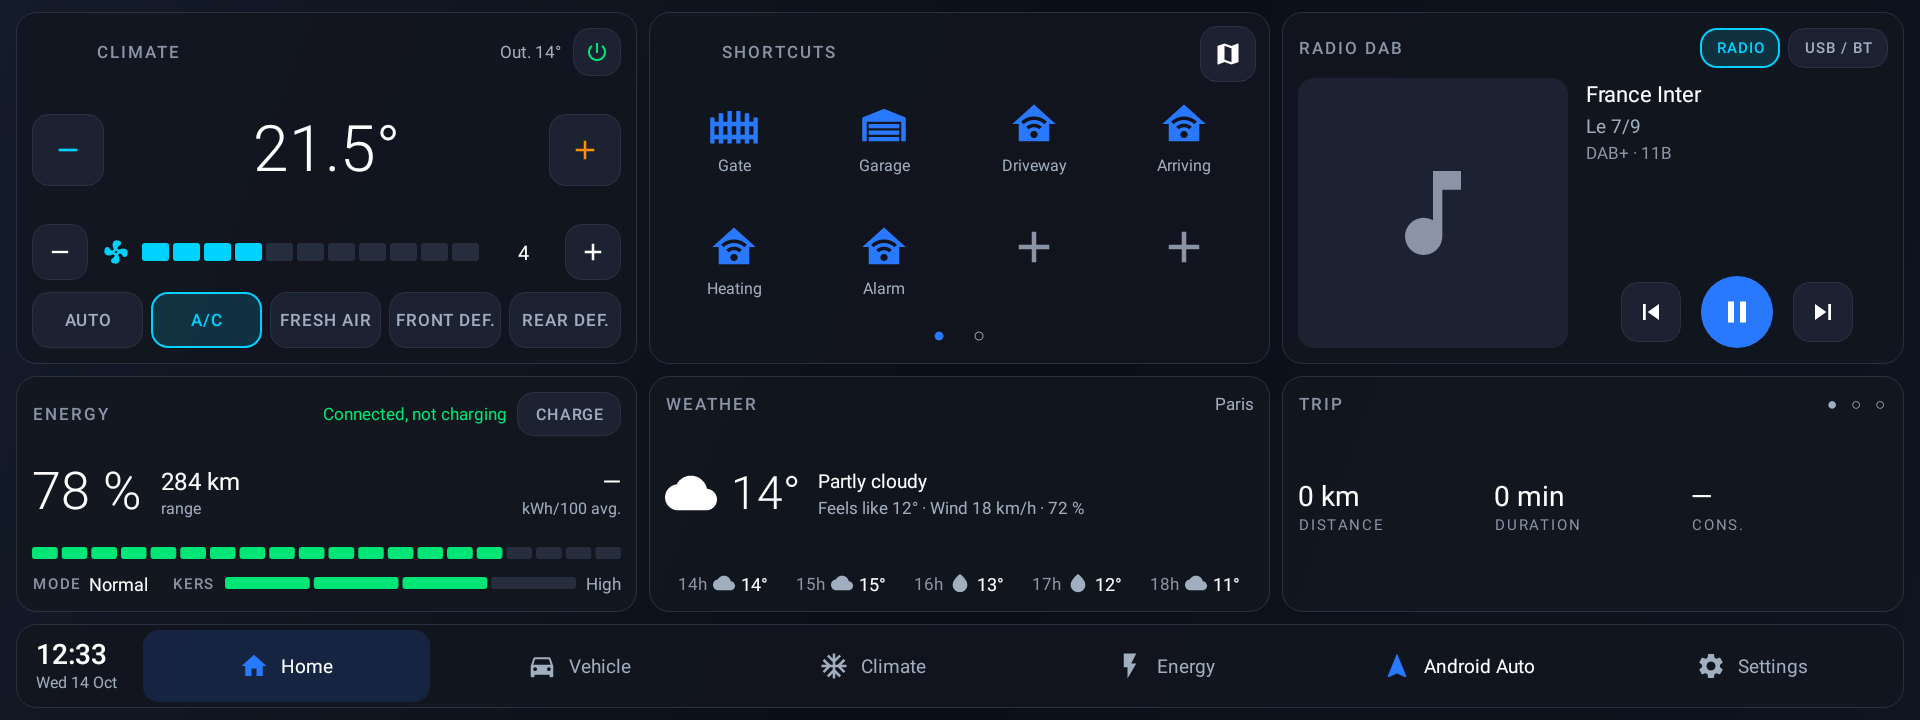
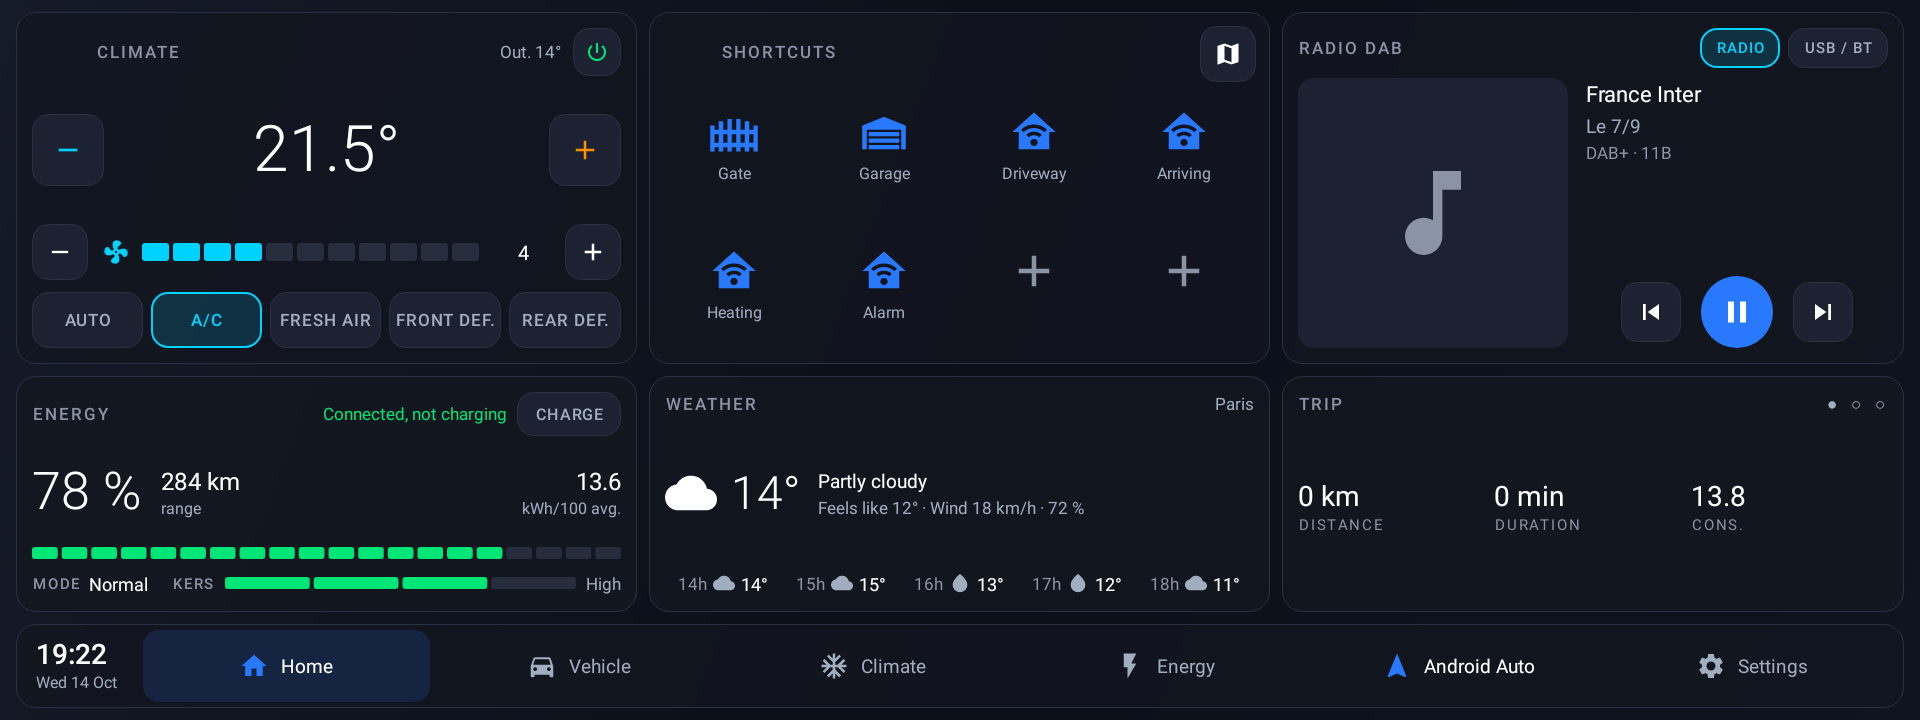
Measured consumption: battery power split into driving, climate and accessories (learned at standstill); single shortcuts page without dots

diff --git a/app/src/main/java/app/mg4dash/energy/EnergyMonitor.kt b/app/src/main/java/app/mg4dash/energy/EnergyMonitor.kt
@@ -1,0 +1,191 @@
+package app.mg4dash.energy
+
+import android.content.Context
+import app.mg4dash.BuildConfig
+import app.mg4dash.car.CarBridge
+import app.mg4dash.car.CarProps
+import app.mg4dash.car.VehicleState
+import app.mg4dash.system.Log
+import app.mg4dash.system.Prefs
+import kotlinx.coroutines.CoroutineScope
+import kotlinx.coroutines.Dispatchers
+import kotlinx.coroutines.SupervisorJob
+import kotlinx.coroutines.delay
+import kotlinx.coroutines.flow.MutableStateFlow
+import kotlinx.coroutines.flow.StateFlow
+import kotlinx.coroutines.launch
+
+/**
+ * Consommation mesurée, répartie entre conduite, climatisation et accessoires.
+ *
+ * Constaté sur la voiture (journal du 2026-10-14) : les compteurs de consommation SAIC restent
+ * à zéro, mais tension et courant batterie sont fiables. Donc, chaque seconde :
+ *  - P = tension × courant ; P > 0 = énergie consommée, P < 0 en roulant = récupération ;
+ *  - à l'arrêt, clim coupée : P = accessoires (12 V, écran…) → appris, par état des feux /
+ *    essuie-glaces (différence mesurée en conditions identiques) ;
+ *  - à l'arrêt, clim allumée : P − accessoires = clim → appris par réglage (ventilation,
+ *    chauffage / froid, dégivrage) ;
+ *  - en roulant : clim et accessoires = valeurs apprises, le reste = conduite.
+ * Deux périodes : depuis la dernière recharge, depuis le démarrage (pause de plus de 10 min).
+ */
+object EnergyMonitor {
+    private const val TAG = "EnergyMon"
+    private const val SLEEP_GAP_MS = 10 * 60_000L
+
+    data class Totals(
+        val outKwh: Float = 0f,      // énergie sortie de la batterie
+        val regenKwh: Float = 0f,    // récupérée en roulant
+        val climKwh: Float = 0f,
+        val accKwh: Float = 0f,
+        val km: Int = 0,
+    ) {
+        val driveKwh: Float get() = (outKwh - climKwh - accKwh).coerceAtLeast(0f)
+        val netKwh: Float get() = (outKwh - regenKwh).coerceAtLeast(0f)
+        /** kWh/100 km net (récupération déduite), à partir de 2 km. */
+        val per100: Float? get() = if (km >= 2 && netKwh > 0.1f) (netKwh / km * 100f).takeIf { it in 3f..60f } else null
+    }
+
+    private val _sinceCharge = MutableStateFlow(Totals())
+    val sinceCharge: StateFlow<Totals> = _sinceCharge
+    private val _sinceStart = MutableStateFlow(Totals())
+    val sinceStart: StateFlow<Totals> = _sinceStart
+
+    /** Puissances apprises (W), pour l'affichage et le journal. */
+    @Volatile var accessoriesW = 250f; private set
+    @Volatile var climateW = 0f; private set
+
+    private val scope = CoroutineScope(SupervisorJob() + Dispatchers.Default)
+
+    fun start(context: Context) {
+        val prefs = Prefs(context)
+        val sp = prefs.raw
+        if (BuildConfig.MOCK) {
+            _sinceCharge.value = Totals(18.4f, 3.2f, 2.1f, 0.9f, 112)
+            _sinceStart.value = Totals(3.6f, 0.7f, 0.5f, 0.2f, 21)
+            return
+        }
+        fun load(p: String) = Totals(sp.getFloat("${p}_out", 0f), sp.getFloat("${p}_rgn", 0f), sp.getFloat("${p}_clim", 0f), sp.getFloat("${p}_acc", 0f))
+        _sinceCharge.value = load("em_c")
+        accessoriesW = sp.getFloat("em_base", 250f)
+
+        scope.launch {
+            var last = System.currentTimeMillis()
+            var chargeKm = sp.getInt("em_c_km0", -1)
+            var startKm = -1
+            var lastSoc = sp.getInt("em_last_soc", -1)
+            var saveTick = 0
+            val learned = HashMap<String, Float>()
+            fun get(k: String, def: Float) = learned.getOrPut(k) { sp.getFloat(k, def) }
+            fun put(k: String, v: Float) { learned[k] = v }
+            while (true) {
+                delay(1000)
+                val now = System.currentTimeMillis()
+                val dt = now - last
+                last = now
+                val s = CarBridge.state.value
+                val km = s.odometerKm
+                val soc = s.batteryPercent
+
+                // Nouveau démarrage : longue pause (voiture en veille) ou premier passage
+                if (dt > SLEEP_GAP_MS || startKm < 0) {
+                    if (km != null) startKm = km
+                    _sinceStart.value = Totals()
+                }
+                // Recharge : le % remonte → nouvelle période « depuis la recharge »
+                if (soc != null) {
+                    if (lastSoc >= 0 && soc > lastSoc + 1 || chargeKm < 0 && km != null) {
+                        Log.i(TAG, "nouvelle période depuis recharge ($soc %)")
+                        _sinceCharge.value = Totals()
+                        chargeKm = km ?: -1
+                        sp.edit().putInt("em_c_km0", chargeKm).apply()
+                    }
+                    if (soc != lastSoc) { lastSoc = soc; sp.edit().putInt("em_last_soc", soc).apply() }
+                }
+
+                val v = CarProps.getFloat(CarProps.BMS_PACK_VOL)
+                val i = CarProps.getFloat(CarProps.BMS_PACK_CRNT)
+                if (v == null || i == null || v < 100f || v > 900f || dt > 5000) continue
+                if (VehicleState.isPlugged(s.chargeStatus)) continue   // en charge ou V2L : hors conso
+                val p = v * i
+                val h = dt / 3_600_000f
+                val stopped = (s.speedKmh ?: 0f) < 0.5f
+                val hvacOn = s.hvacOn == true
+
+                // Apprentissage à l'arrêt
+                val accKey = "em_acc_" + accessoryKey(s)
+                val accW = get(accKey, accessoriesW)
+                val climKey = "em_clim_" + climateKey(s)
+                if (stopped && p in 30f..8000f) {
+                    if (!hvacOn) {
+                        val nv = ema(accW, p, 0.02f)
+                        put(accKey, nv)
+                        if (accKey == "em_acc_off") { accessoriesW = nv; put("em_base", nv) }
+                    } else {
+                        val c = (p - accW).coerceAtLeast(0f)
+                        put(climKey, ema(get(climKey, c), c, 0.05f))
+                        put("em_clim_any", ema(get("em_clim_any", c), c, 0.05f))
+                    }
+                }
+
+                // Répartition
+                var out = 0f; var regen = 0f; var clim = 0f; var acc = 0f
+                if (p >= 0f) {
+                    out = p * h
+                    val cw = if (!hvacOn) 0f else if (stopped) (p - accW).coerceAtLeast(0f)
+                        else get(climKey, get("em_clim_any", 1000f))
+                    climateW = cw
+                    val cPart = minOf(cw, p)
+                    val aPart = minOf(accW, p - cPart)
+                    clim = cPart * h; acc = aPart * h
+                } else if (!stopped) {
+                    regen = -p * h
+                }
+                fun add(t: Totals, k: Int?, k0: Int) = t.copy(
+                    outKwh = t.outKwh + out / 1000f, regenKwh = t.regenKwh + regen / 1000f,
+                    climKwh = t.climKwh + clim / 1000f, accKwh = t.accKwh + acc / 1000f,
+                    km = if (k != null && k0 >= 0) (k - k0).coerceAtLeast(0) else t.km,
+                )
+                _sinceCharge.value = add(_sinceCharge.value, km, chargeKm)
+                _sinceStart.value = add(_sinceStart.value, km, startKm)
+
+                if (++saveTick >= 30) {
+                    saveTick = 0
+                    val c = _sinceCharge.value
+                    val e = sp.edit()
+                    learned.forEach { (k, v) -> e.putFloat(k, v) }
+                    e.putFloat("em_c_out", c.outKwh).putFloat("em_c_rgn", c.regenKwh)
+                        .putFloat("em_c_clim", c.climKwh).putFloat("em_c_acc", c.accKwh).apply()
+                }
+            }
+        }
+    }
+
+    /** Réglage de clim : ventilation (tranches), chauffage / froid / ventilation seule, dégivrage. */
+    private fun climateKey(s: VehicleState): String {
+        val fan = s.fanSpeed ?: 0
+        val fanBucket = when { fan >= 15 -> "max"; fan >= 7 -> "hi"; fan >= 4 -> "mid"; else -> "lo" }
+        val set = s.driverTemp; val outside = s.outsideTemp
+        val mode = when {
+            set == null || outside == null -> "x"
+            set > outside + 2 -> "heat"
+            set < outside - 2 -> "cool"
+            else -> "vent"
+        }
+        val def = (if (s.defrostFront == true) "F" else "") + (if (s.defrostRear == true) "R" else "")
+        return "$mode-$fanBucket-$def"
+    }
+
+    /** Équipements électriques visibles : feux, essuie-glaces. "off" = rien d'allumé. */
+    private fun accessoryKey(s: VehicleState): String {
+        val parts = buildList {
+            if (CarProps.readAny(289410560).let { it == "1" || it == "2" || it == "true" }) add("lights")
+            if (CarProps.readAny(289410561).let { it == "1" || it == "2" || it == "true" }) add("high")
+            if (CarProps.readAny(289410562).let { it == "1" || it == "2" || it == "true" }) add("fog")
+            if (CarProps.readAny(557897511).let { it.isNotEmpty() && it != "0" }) add("wiper")
+            if (s.defrostRear == true && s.hvacOn != true) add("rear")
+        }
+        return if (parts.isEmpty()) "off" else parts.joinToString("+")
+    }
+
+    private fun ema(old: Float, new: Float, k: Float) = old + (new - old) * k
+}

diff --git a/app/src/main/java/app/mg4dash/shortcuts/Shortcuts.kt b/app/src/main/java/app/mg4dash/shortcuts/Shortcuts.kt
@@ -28,14 +28,14 @@ import java.net.URL
 import kotlin.concurrent.thread
 
 /**
- * Raccourcis de l'accueil : 2 pages de 4 × 2 cases, chacune vide, une appli ou une action
+ * Raccourcis de l'accueil : 4 × 2 cases, chacune vide, une appli ou une action
  * Home Assistant. Toucher = lancer ; appui long = modifier.
  * Stockage : "sc_<n>" = "app|<composant>" ou "ha|<entity_id>|<libellé>".
  */
 object Shortcuts {
     const val COLS = 4
     const val ROWS = 2
-    const val PAGES = 2
+    const val PAGES = 1
     private const val TAG = "Raccourcis"
     private val main = Handler(Looper.getMainLooper())
 
@@ -85,18 +85,6 @@ object Shortcuts {
             grid.addView(row, kit.lp(-1, 0, 1f, t = if (r > 0) 10 else 0))
         }
         holder.addView(grid, kit.lp(-1, 0, 1f, t = 4))
-        // Points de page : toucher pour changer
-        val dots = kit.row().apply { gravity = Gravity.CENTER }
-        for (p in 0 until PAGES) {
-            dots.addView(TextView(activity).apply {
-                text = if (p == page) "●" else "○"
-                setTextColor(kit.color(if (p == page) R.color.accent_action else R.color.text_sub))
-                setTextSize(TypedValue.COMPLEX_UNIT_SP, 20f)
-                setPadding(kit.dp(14), kit.dp(4), kit.dp(14), 0)
-                setOnClickListener { onPage(p) }
-            })
-        }
-        holder.addView(dots, kit.lp(-1, -2))
     }
 
     private fun cell(activity: Activity, kit: Kit, prefs: Prefs, i: Int, refresh: () -> Unit): View {

diff --git a/app/src/main/java/app/mg4dash/energy/ConsumptionEstimator.kt b/app/src/main/java/app/mg4dash/energy/ConsumptionEstimator.kt
@@ -63,7 +63,8 @@ object ConsumptionEstimator {
                     sp.edit().putInt("ref_km", km).putInt("ref_soc", soc).apply()
                 }
                 if (soc != lastSoc) sp.edit().putInt("last_soc", soc).apply()
-                _average.value = estimate(km - refKm, refSoc - soc, capacity)
+                // Mesure par puissance batterie si disponible, sinon estimation par le % batterie
+                _average.value = EnergyMonitor.sinceCharge.value.per100 ?: estimate(km - refKm, refSoc - soc, capacity)
 
                 // Trajet en cours
                 if (tripStartKm == null) { tripStartKm = km; tripStartSoc = soc }
@@ -71,7 +72,7 @@ object ConsumptionEstimator {
                 val d = km - (tripStartKm ?: km)
                 _trip.value = _trip.value.copy(
                     distanceKm = d,
-                    kwhPer100 = estimate(d, (tripStartSoc ?: soc) - soc, capacity),
+                    kwhPer100 = EnergyMonitor.sinceStart.value.per100 ?: estimate(d, (tripStartSoc ?: soc) - soc, capacity),
                 )
             }
         }

diff --git a/app/src/main/java/app/mg4dash/pages/EnergyActivity.kt b/app/src/main/java/app/mg4dash/pages/EnergyActivity.kt
@@ -9,6 +9,7 @@ import androidx.lifecycle.repeatOnLifecycle
 import app.mg4dash.R
 import app.mg4dash.car.CarBridge
 import app.mg4dash.car.CarProps
+import app.mg4dash.energy.EnergyMonitor
 import app.mg4dash.car.VehicleState
 import app.mg4dash.energy.ChargeGuard
 import app.mg4dash.system.Apps
@@ -239,7 +240,9 @@ class EnergyActivity : PageActivity() {
             s.chargeRemainMin?.takeIf { VehicleState.isCharging(s.chargeStatus) && it in 1..2000 }
                 ?.let { getString(R.string.en_ends_in, it / 60, it % 60) },
         ).joinToString(" · ")
-        renderConsumption(p.cons)
+        // Compteurs SAIC à zéro sur la voiture : consommation mesurée par MG4Dash (EnergyMonitor)
+        val t = if (period == 0) EnergyMonitor.sinceCharge.value else EnergyMonitor.sinceStart.value
+        renderConsumption(if (t.outKwh > 0f) floatArrayOf(t.outKwh, t.climKwh, t.accKwh, t.regenKwh) else p.cons)
     }
 
     private fun renderLimit(carLimit: Int? = null) {

diff --git a/app/src/main/java/app/mg4dash/LauncherApp.kt b/app/src/main/java/app/mg4dash/LauncherApp.kt
@@ -18,6 +18,7 @@ class LauncherApp : Application() {
         CarBridge.start(this)
         app.mg4dash.car.CarProps.start(this)
         app.mg4dash.energy.ChargeGuard.start(this)
+        app.mg4dash.energy.EnergyMonitor.start(this)
         ConsumptionEstimator.start(this)
         app.mg4dash.energy.EnergyLogger.start(this)
         MediaHub.start(this)
